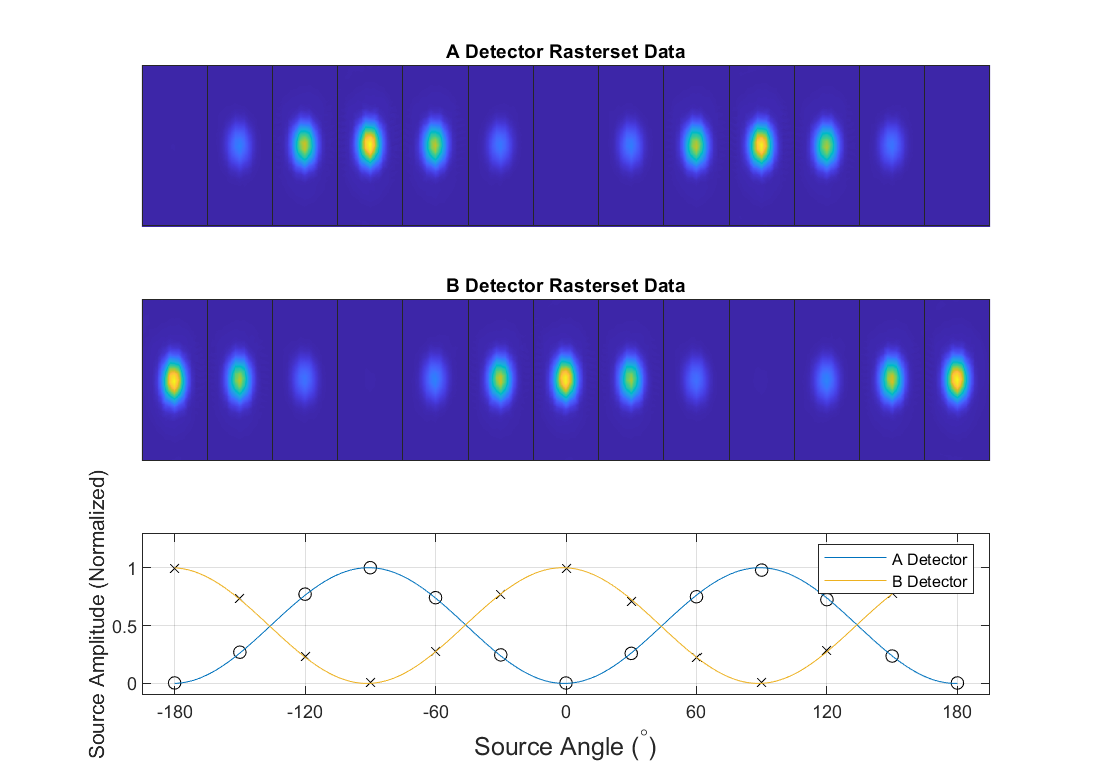
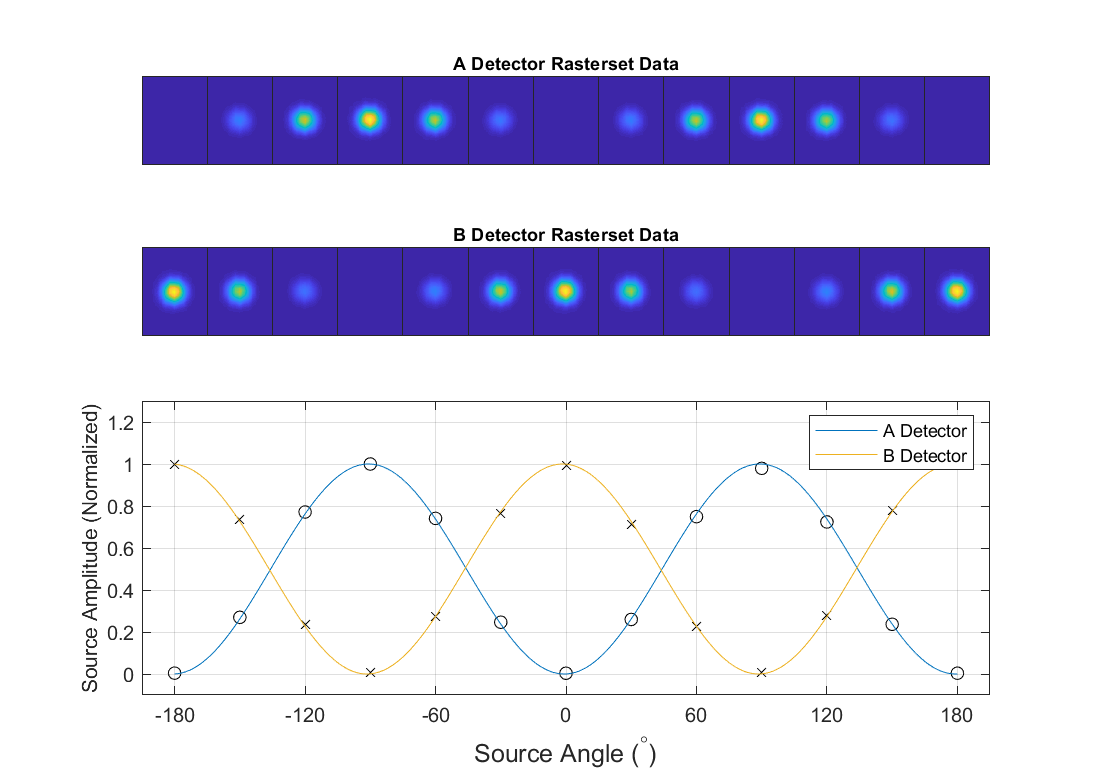
Update to RPS mirror posting

diff --git a/2021mmdd_rps_moon_reanalysis/index.html b/2021mmdd_rps_moon_reanalysis/index.html
@@ -45,7 +45,7 @@
 
 <section><h2>Mirror Parameters 2017</h2>
 
-    <p>In the previous attempt, we estimated the mirror tilt and roll parameters by fitting 2D Gaussians to detector timestreams in boresight-centered ($r/\theta$) coordinates returned by a pointing model <tt>keck_beam_map_pointing.m</tt> (described in <a href="CAB2014"></a>):</p>
+    <p>In the previous attempt <a href="JAC2019"></a>, we estimated the mirror tilt and roll parameters by fitting 2D Gaussians to detector timestreams in boresight-centered ($r/\theta$) coordinates returned by a pointing model <tt>keck_beam_map_pointing.m</tt> (described in <a href="CAB2014"></a>):</p>
 
     \begin{equation}
     [r,\,\,\theta] = \text{keck_beam_map_pointing}(Tilt,\,Roll\,|\, Az,\,El,\,Dk,\,Mount,\, Moon)
@@ -80,61 +80,6 @@
         which is done using our Matlab wrapper of <i>MINUIT</i> called <tt>matmin.m</tt>. I estimate the statistical uncertainty using bootstrapping.
     </p>
 
-
-    <h3>Results</h3>
-    <table class="center">
-
-        <tr>
-            <th>Parameter</th>
-            <th>Best-Fit $(^\circ)$</th>
-            <th>Bootstrap $\mu\,(^\circ)$</th>
-            <th>Bootstrap $\sigma\,(^\circ)$</th>
-        </tr>
-        <tr>
-            <td>Tilt</td>
-            <td>44.5473</td>
-            <td>44.5472</td>
-            <td>0.0004</td>
-
-        </tr>
-        <tr>
-            <td>Roll</td>
-            <td>-0.9651</td>
-            <td>-0.9651</td>
-            <td>0.0006</td>
-        </tr>
-        <tr>
-            <td>DA</td>
-            <td>0.291</td>
-            <td>0.291</td>
-            <td>0.006</td>
-        </tr>
-    </table>
-
-
-    <!--
-    Things to think about:
-    1. Where do 'observed' r/th's come from?
-        - CMB-derived centers
-
-    2. How different are the residuals between max-amp centers and beam-fit centers?
-
-    3. Why doesn't changing the theta of the 'boresight' affect calculation of x/y?
-        A. x/y is defined by the orientation vector and aligned wrt the mount (dk) and not focal plane (dk+da)
-        B. theta (which includes drum angle) only determines the location of D, not the orientation vector.
-
-    4. What does a non-zero dk_off mean in the fit?
-        - .
-    -->
-
-    <p>We find a difference between the apparent drum angle and the CMB-derived drum angle of -1.21&deg;. The plot below shows the best-fit residuals when the drum angle is locked at the CMB-derived value and when it is allowed as a free parameter.</p>
-
-    <figure>
-        <img src="figs/moonfit_residuals_no_drumangle.png" />
-        <figcaption>
-            Best fit residuals with cmb-derived drum angle locked in <b>(left)</b>, left as a free parameter <b>(middle)</b>, and the difference between the two sets of residuals <b>(right)</b>.
-        </figcaption>
-    </figure>
 
 
     <h3>Data</h3>
@@ -197,6 +142,66 @@
     <p>This analysis uses the <tt>beamcen_20170101</tt> CMB-derived beam centers which is discussed in <a href="JBW2018"></a>. It should be noted that the $r/\theta$ values returned by <tt>get_array_info.m</tt> include an additional rotation from the drum angle. To remain agnostic of the drum angle for this analysis, we acquire the CMB-derived beam centers using <tt>find_file_by_date.m</tt> instead.
     </p>
 
+
+<h3>Results</h3>
+
+    The results shown in the table below are from fitting to observations at all three Deck angles. My 2019 results, which fit only to the DK=0 observation, were $[Tilt=44.51^\circ,\,Roll=0.11^\circ]$ for comparison.
+    <table class="center">
+
+        <tr>
+            <th>Parameter</th>
+            <th>Best-Fit $(^\circ)$</th>
+            <th>Bootstrap $\mu\,(^\circ)$</th>
+            <th>Bootstrap $\sigma\,(^\circ)$</th>
+        </tr>
+        <tr>
+            <td>Tilt</td>
+            <td>44.5473</td>
+            <td>44.5472</td>
+            <td>0.0004</td>
+
+        </tr>
+        <tr>
+            <td>Roll</td>
+            <td>-0.9651</td>
+            <td>-0.9651</td>
+            <td>0.0006</td>
+        </tr>
+        <tr>
+            <td>DA</td>
+            <td>0.291</td>
+            <td>0.291</td>
+            <td>0.006</td>
+        </tr>
+    </table>
+
+
+    <!--
+    Things to think about:
+    1. Where do 'observed' r/th's come from?
+        - CMB-derived centers
+
+    2. How different are the residuals between max-amp centers and beam-fit centers?
+
+    3. Why doesn't changing the theta of the 'boresight' affect calculation of x/y?
+        A. x/y is defined by the orientation vector and aligned wrt the mount (dk) and not focal plane (dk+da)
+        B. theta (which includes drum angle) only determines the location of D, not the orientation vector.
+
+    4. What does a non-zero dk_off mean in the fit?
+        - .
+    -->
+
+    <p>We find a difference between the apparent drum angle and the CMB-derived drum angle of -1.21&deg;. The plot below shows the best-fit residuals when the drum angle is locked at the CMB-derived value and when it is allowed as a free parameter.</p>
+
+    <figure>
+        <img src="figs/moonfit_residuals_no_drumangle.png" />
+        <figcaption>
+            Best fit residuals with cmb-derived drum angle locked in <b>(left)</b>, left as a free parameter <b>(middle)</b>, and the difference between the two sets of residuals <b>(right)</b>.
+        </figcaption>
+    </figure>
+
+
+
 </section>
 
 <section>
@@ -216,6 +221,7 @@
     <h3>Data</h3>
 
 </section>
+
 
 <hr>
 
@@ -247,6 +253,7 @@
         "CAB2014",
         "RWO2015",
         "JBW2018",
+        "JAC2019"
 	];
 	
 	// Logbook Site map:
@@ -261,6 +268,7 @@
         "../../../../keck/analysis_logbook/analysis/20140203_beam_map_pointing/",
         "http://polar-array.stanford.edu/twiki/bin/view/BICEP3/Logbook150205RadioPointing",
         "../20181207_B2018_beamcen/",
+        "../20190409_moon_analysis_2017/"
 	];
 	
 	var desc = [
@@ -269,6 +277,7 @@
         "Spherical Coordinates for beam maps",
         "Radio pointing model from CMB",
         "B2016, B2017, and B2018 CMB-derived beam center correlations",
+        "Analysis of Jan 2017 BICEP3 DK=0 Moon observations for RPS"
 	];
 	
 	

diff --git a/2020mmdd_rps_review/scripts/rps_review_posting_plots.m b/2020mmdd_rps_review/scripts/rps_review_posting_plots.m
@@ -130,21 +130,31 @@ addpath('scripts\util')
 %% Show an example of the data
 fig = figure(2);
 clf
-set(fig,'Position',[2200,100,700,500])
+set(fig,'Position',[0*2200,100,700,500])
 mrk = {'o','x'};
 ch = [696,697];
 pols = ['A','B'];
 scaling = 20;
 limx = [-195 195];
 limy = [-0.1 1.3];
+
 dpair = 0.1;
 ybin = -20:dpair:20;
 xbin = limx(1):dpair:limx(2);
+
+dpix = 0.1;
+ybin = -20:dpix:20;
+xbin = limx(1):dpix:limx(2);
+
 [X,Y] = meshgrid(xbin,ybin);
 
 
 for chi = 1:2
-subplot(3,1,chi)
+subplot(4,1,chi)
+% subaxis(3,1,chi,...
+%     'S',0,'SV',0.0,'SH',0.0,...
+%     'P',0,...
+%     'M',0,'ML',0.075,'MR',0.05,'MT',0.025,'MB',0.075)
 %[data,x,y,phi,az,el,dk,quad] = rps_concat_data(tods,ch(chi));
 %plot(data/nanmax(data),'.')
 az_plot = [];
@@ -177,12 +187,17 @@ a.XTickLabel = [];
 a.YTick = [];
 a.GridAlpha = 1;
 title([pols(chi) ' Detector Rasterset Data'])
+axis image
 end
 %ylabel('Source Amplitude (Normalized)','FontSize',12)
 
 clr1 = clr([1,3],:);
 
-subplot(3,1,3)
+subplot(4,1,3:4)
+% subaxis(3,1,3,...
+%     'S',0,'SV',0.025,'SH',0.01,...
+%     'P',0,...
+%     'M',0,'ML',0.075,'MR',0.05,'MT',0.025,'MB',0.075)
 plot(-100,-100,'Color',clr1(1,:));
 hold on
 plot(-100,-100,'Color',clr1(2,:));
